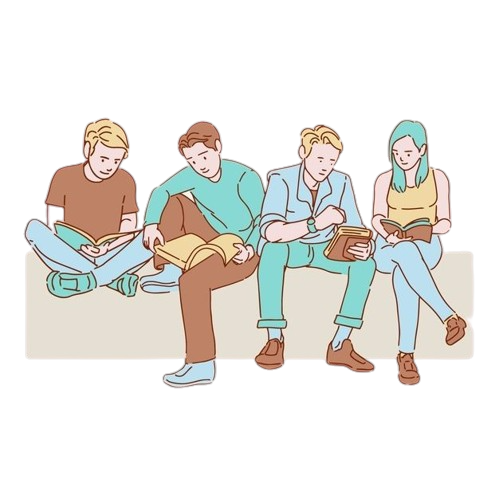
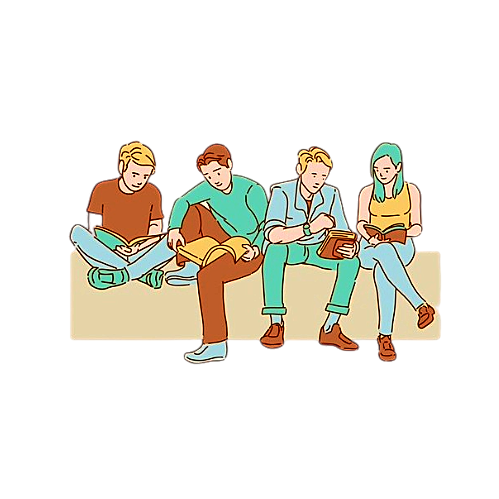
second half of landing page complete

diff --git a/retro-books/src/Components/LandingPage.js b/retro-books/src/Components/LandingPage.js
@@ -2,6 +2,7 @@ import React from "react";
 import {useNavigate} from "react-router-dom"
 import logo from "./Assets/logo.png";
 import pic2 from "./Assets/pic2.png";
+import pic1 from "./Assets/pic1.png";
 import "./Landingpage.css";
 
 export default function LandingPage() {
@@ -71,6 +72,18 @@ export default function LandingPage() {
           </div>
           <div className="col-lg-6 col-md-6 col-sm-12 part-2">
             <img src={pic2} alt="" className="cover-photo img-fluid mx-auto d-block"/>
+          </div>
+        </div>
+      </div>
+
+      <div className="Container-fluid buy-books-section">
+        <div className="row">
+          <div className="col-lg-6 col-md-6 col-sm-12 part-1">
+            <p className="part-1-name"> Buy Used Books</p>
+            <p className="tagline"> "Explore the Treasure Trove of Preloved Stories: Buy Used Books and Dive into a World of Affordable Reading Pleasures!"</p>
+          </div>
+          <div className="col-lg-6 col-md-6 col-sm-12 part-2">
+            <img src={pic1} alt="" className="buy-books-section-photo img-fluid mx-auto d-block"/>
           </div>
         </div>
       </div>

diff --git a/retro-books/src/Components/Landingpage.css b/retro-books/src/Components/Landingpage.css
@@ -170,3 +170,41 @@
   background: #F6F9FE;
   color: #44207a;
 }
+
+.buy-books-section{
+  background-color: #bfafef;
+  /* background-color: #fff; */
+  height: 100%;
+  width: 100%;
+  /* padding-bottom: 4%; */
+}
+
+.buy-books-section-photo{
+  height: 100%;
+  width: 80%;
+}
+
+.buy-books-section .part-1 {
+  padding: 8%;
+  padding-bottom: 4%;
+  font-size: 500%;
+  color: #44207a;
+  font-family: cursive;
+}
+
+.buy-books-section .tagline {
+  font-size: 40%;
+  color: #44207a;
+  font-family: "dancing script", cursive;
+}
+
+@media screen and (max-width: 600px) {
+  .buy-books-section .part-1 {
+    margin-top: 1%;
+    height: 100%;
+    width: 100%;
+  }
+  .buy-books-section {
+    padding-bottom: 20%;
+  }
+}
